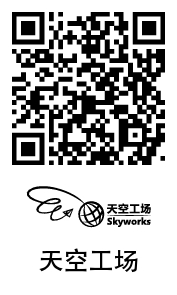
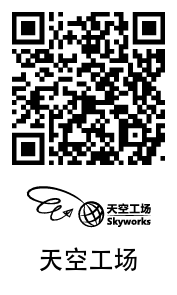
Switch to FounderType fonts as fandol fonts are found missing characters.

Changed region(s): [[0.226, 0.8237, 0.5085, 0.9458], [0.5085, 0.8237, 0.791, 0.9458]]

diff --git a/skylabel.py b/skylabel.py
@@ -15,7 +15,7 @@ urlPrefix = 'https://wiki.thu-skyworks.org/'
 
 texPreamable = '''
 \\documentclass{minimal}
-\\usepackage[UTF8]{ctex}
+\\usepackage[UTF8,fontset=founder]{ctex}
 \\usepackage{hyperref}
 \\usepackage{graphicx}
 \\usepackage{tikz}

diff --git a/README.md b/README.md
@@ -7,3 +7,10 @@ Dependencies:
 * `inkscape` (for `svg` to work correctly)
 * `python3` (modules: `qrcode`)
 * `xpdf` (providing executable `pdftopng`, only for generating example graphics)
+* Some fonts in FounderType (free download at [http://www.foundertype.com](http://www.foundertype.com/))
+  * 方正仿宋_GBK
+  * 方正黑体_GBK
+  * 方正细黑一_GBK
+  * 方正楷体_GBK
+  * 方正小标宋_GBK
+  * 方正书宋_GBK
